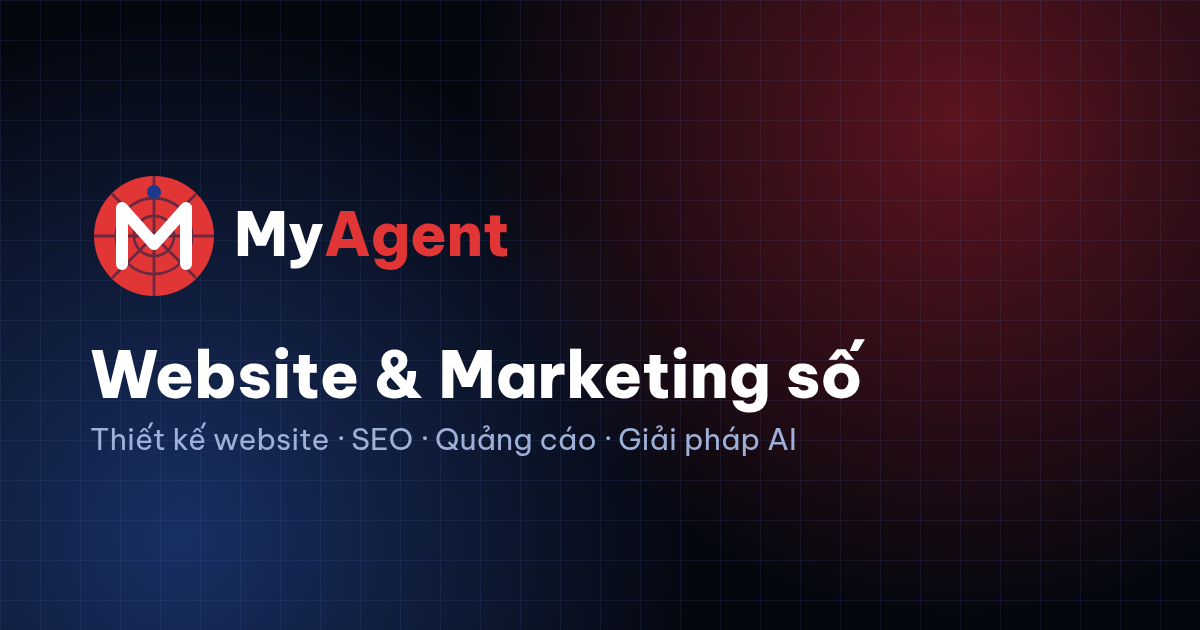
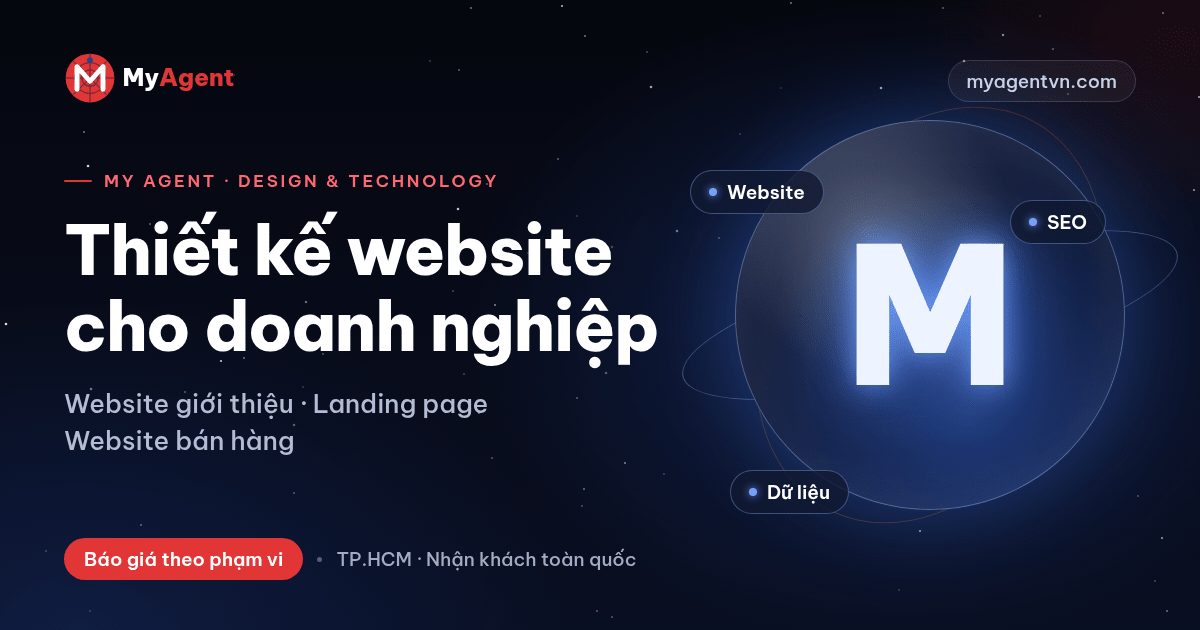
Add per-page social share images (og:image/twitter:image + alt) and refresh shared og-image.png
- site-v6/src/content/og-images.json: route -> image + alt for homepage, listings, chu-de and dich-vu pages
  (kept outside seo.json because scripts/import-legacy.cjs rewrites listing entries there)
- site-v6/src/lib/seo.tsx: use og-images.json first; add og:image:type/alt and twitter:image:alt
- 41 new 1200x630 JPEGs in assets/og/ and site-v6/public/assets/og/
- assets/og-image.png: new homepage design (PNG 1200x630), still used by articles and JSON-LD
Deployed to myagentvn.com on 14/11 07:51 (UTC+7) after Peter approved.

diff --git a/site-v6/src/lib/seo.tsx b/site-v6/src/lib/seo.tsx
@@ -1,9 +1,12 @@
 import type { Metadata } from 'next';
 import seoData from '@/content/seo.json';
+import ogImageData from '@/content/og-images.json';
+// Per-route social share images (14/11), kept outside seo.json because scripts/import-legacy.cjs rewrites listing entries there.
+const ogImages=ogImageData as Record<string,{image:string;alt:string}>;
 const seo=seoData as Record<string,{meta:Record<string,string>;ld:string[]}>;
 export function seoMetadata(route:string,fallback:{title:string;description?:string}):Pick<Metadata,'openGraph'|'twitter'>{
- const m=seo[route]?.meta||{},url='https://myagentvn.com'+route,image=m['og:image']||'https://myagentvn.com/assets/og-image.png',title=m['og:title']||fallback.title,description=m['og:description']||fallback.description;
- return {openGraph:{type:m['og:type']==='article'?'article':'website',locale:m['og:locale']||'vi_VN',siteName:m['og:site_name']||'My Agent',title,description,url:m['og:url']||url,images:[{url:image,width:Number(m['og:image:width']||1200),height:Number(m['og:image:height']||630)}]},
-  twitter:{card:'summary_large_image',title:m['twitter:title']||title,description:m['twitter:description']||description,images:[m['twitter:image']||image]}};
+ const m=seo[route]?.meta||{},og=ogImages[route],url='https://myagentvn.com'+route,image=og?'https://myagentvn.com'+og.image:m['og:image']||'https://myagentvn.com/assets/og-image.png',alt=og?.alt||m['og:image:alt']||undefined,title=m['og:title']||fallback.title,description=m['og:description']||fallback.description;
+ return {openGraph:{type:m['og:type']==='article'?'article':'website',locale:m['og:locale']||'vi_VN',siteName:m['og:site_name']||'My Agent',title,description,url:m['og:url']||url,images:[{url:image,width:og?1200:Number(m['og:image:width']||1200),height:og?630:Number(m['og:image:height']||630),...(og?{type:'image/jpeg'}:{}),...(alt?{alt}:{})}]},
+  twitter:{card:'summary_large_image',title:m['twitter:title']||title,description:m['twitter:description']||description,images:[og?{url:image,...(alt?{alt}:{})}:m['twitter:image']||image]}};
 }
 export function JsonLd({route}:{route:string}){return <>{(seo[route]?.ld||[]).map((json,i)=><script key={i} type="application/ld+json" dangerouslySetInnerHTML={{__html:json.replace(/</g,'\\u003c')}}/>)}</>}
